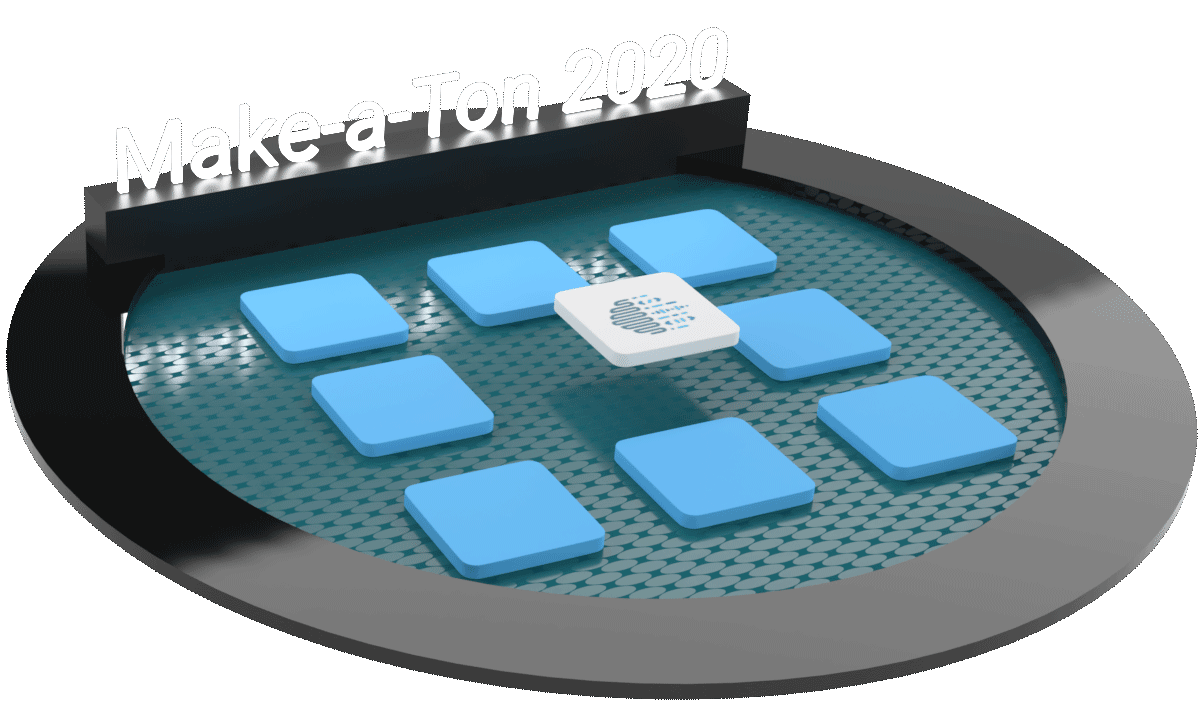
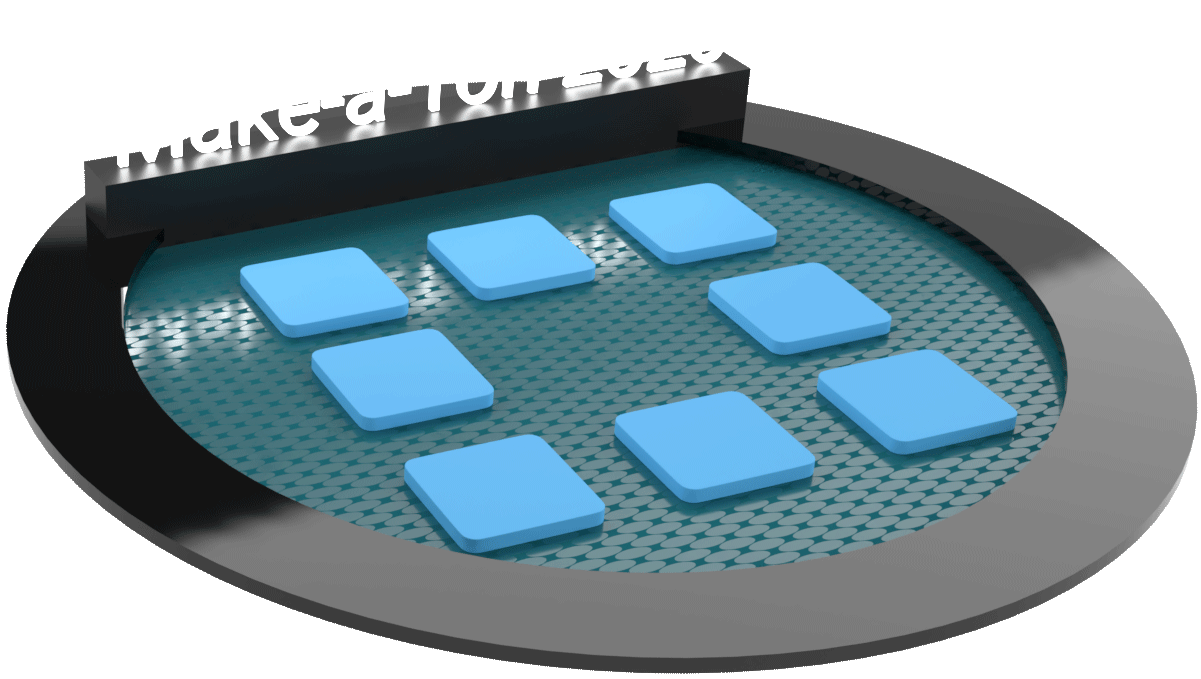
implemeted hero section image animation

diff --git a/assets/css/main.css b/assets/css/main.css
@@ -142,9 +142,53 @@ body {
 .hero-img {
   position: relative;
   width: 800px;
-  top: 25px;
+  top: -150px;
+  left: -50px;
   transition: all 0.5s ease-in-out;
 }
+.hero-img-card{
+  width: 100%;
+  position: absolute;
+  left: 0;
+  top: 0;
+  z-index: 100;
+  animation: hero-card-animation 1.7s ease-in-out infinite;
+  animation-direction: alternate;
+}
+.hero-img-bg{
+  width: 100%;
+  position: absolute;
+  left: 0;
+  top: 0;
+}
+.hero-img-card-shadow{
+  width: 100%;
+  position: absolute;
+  left: -10px;
+  top: 60px;
+  z-index: 50;
+  opacity: 0.5;
+  filter: saturate(0) invert(1) blur(20px);
+  animation: hero-card-shadow-animation 1.7s ease-in-out infinite;
+  animation-direction: alternate;
+}
+@keyframes hero-card-animation {
+  0% {
+    top: 0px;
+  }
+  100% {
+    top: 20px;
+  }
+}
+@keyframes hero-card-shadow-animation {
+  0% {
+    opacity: 0.5;
+  }
+  100% {
+    opacity: 0.9;
+  }
+}
+
 .cittic-presents img {
   margin: 5px;
   max-width: 120px;
@@ -178,7 +222,7 @@ body {
 }
 .custom-space-1 {
   opacity: 0;
-  max-height: 85px;
+  max-height: 200px;
 }
 .hero-learnmore-sponsors-container {
   padding: 10px;
@@ -278,6 +322,10 @@ body {
   .made-possible {
     display: none !important;
   }
+  .hero-img{
+    top: 0;
+    left: 0;
+  }
 }
 
 @media only screen and (max-width: 460px) {
@@ -321,7 +369,7 @@ body {
   .hero-img {
     width: 500px;
     top: 0;
-    left: 0;
+    left: -50px;
   }
   .cta {
     padding: 5px 10px 5px 10px;

diff --git a/index.html b/index.html
@@ -110,12 +110,27 @@
             <button class="cta">REGISTER NOW</button>
           </div>
           <div class="col-12 col-md-4 col-lg-6 hero-img-container">
-            <img
-              class="hero-img mx-auto"
-              src="assets/img/heros-section-image-compressd.png"
-              alt=""
-              srcset=""
-            />
+            <div class="hero-img">
+                <img
+                    class="hero-img-card mx-auto"
+                    src="assets/img/heros-section-image-card-compressd.png"
+                    alt=""
+                    srcset=""
+                />
+                <img
+                    class="hero-img-card-shadow mx-auto"
+                    src="assets/img/heros-section-image-card-compressd.png"
+                    alt=""
+                    srcset=""
+                />
+                <img
+                    class="hero-img-bg mx-auto"
+                    src="assets/img/heros-section-image-compressd.png"
+                    alt=""
+                    srcset=""
+                />
+
+            </div>
           </div>
         </div>
         <div
